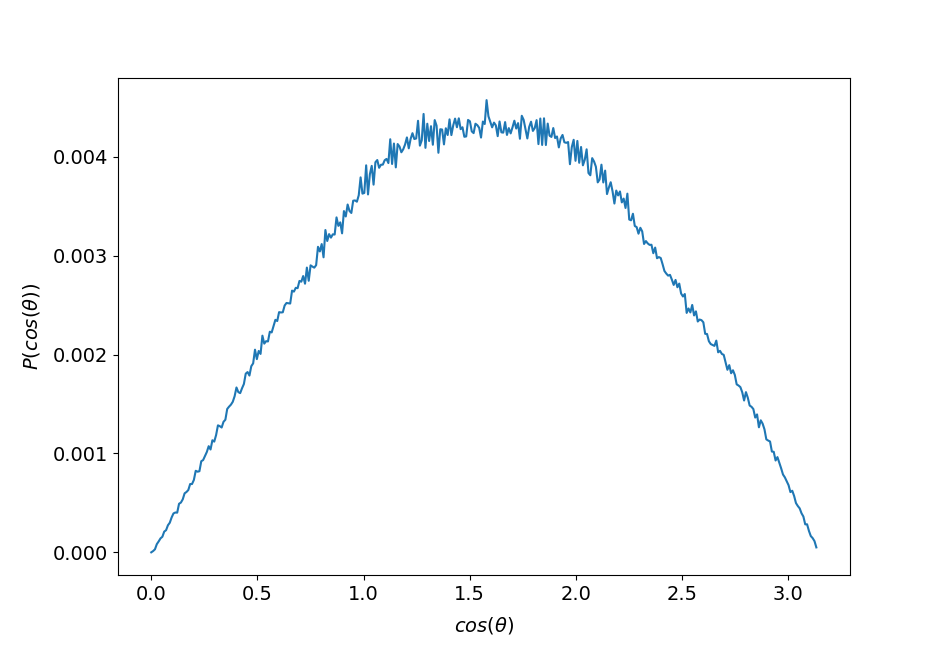
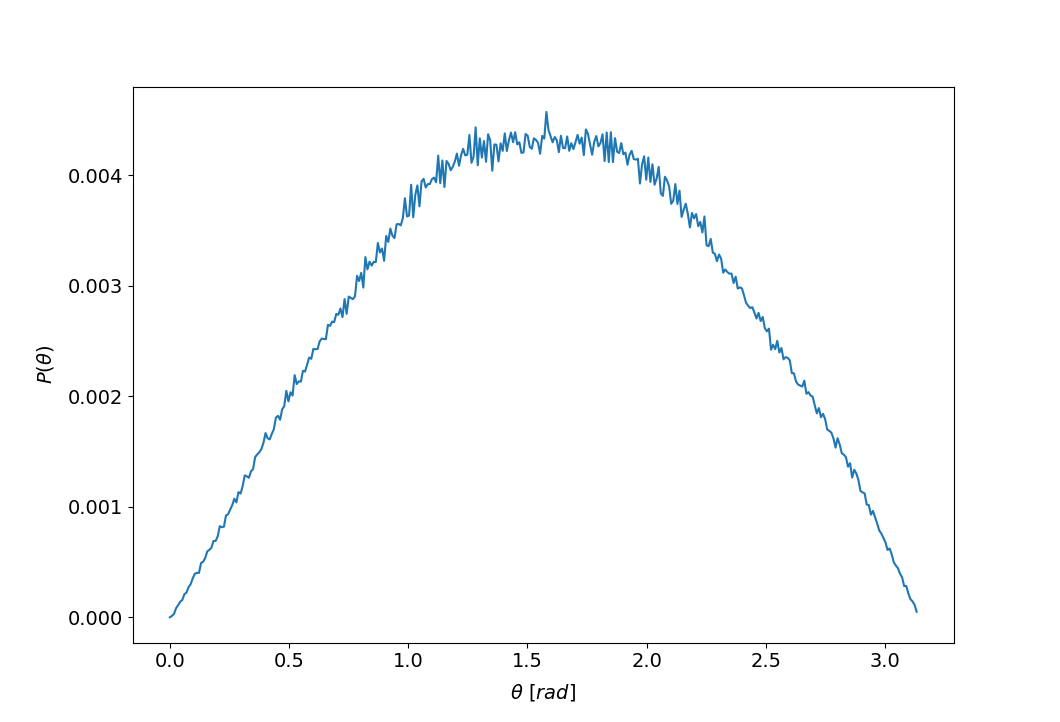
merge dev and master

diff --git a/package/NAMDAnalyzer/dataAnalysis/Rotations.py b/package/NAMDAnalyzer/dataAnalysis/Rotations.py
@@ -139,8 +139,8 @@ class Rotations:
         fig, ax = plt.subplots()
 
         ax.plot(self.angles, self.rotDensity)
-        ax.set_xlabel('$cos(\\theta)$')
-        ax.set_ylabel('$P(cos(\\theta))$')
+        ax.set_xlabel('$\\theta \ [rad]$')
+        ax.set_ylabel('$P(\\theta)$')
 
         fig.show()
 
